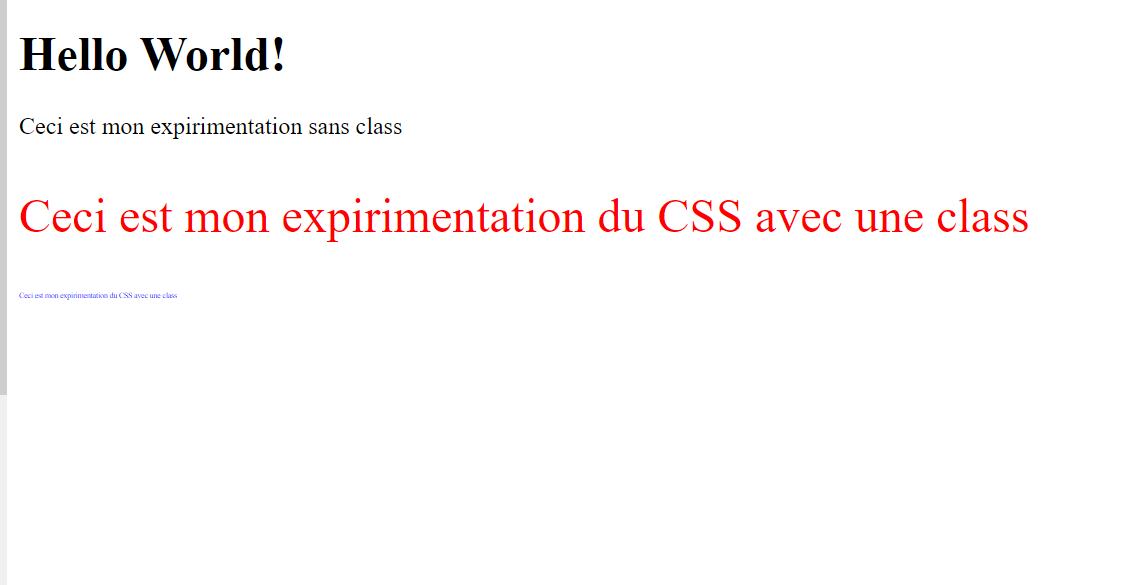
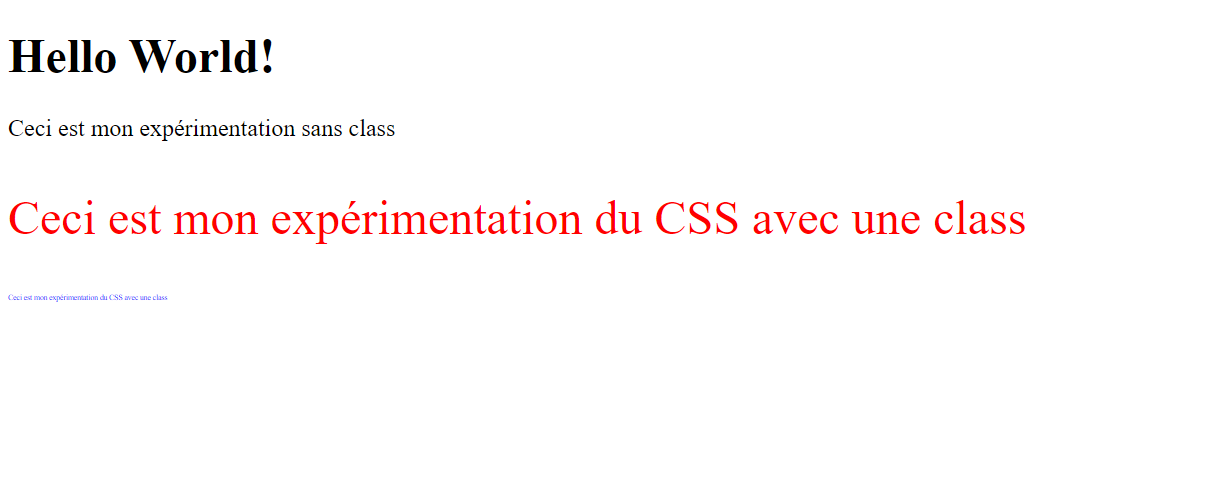
Ajout d'images et corrections de faute

Changed region(s): [[0.0, 0.0, 0.9186, 0.6735]]

diff --git a/index.html b/index.html
@@ -2,11 +2,13 @@
 <html>
   <head>
     <meta charset="utf-8">
-    <title>Mon expirimentation CSS</title>
+    <title>Mon expérimentation CSS</title>
     <link rel="stylesheet" href="/assets/css/style.css">
   </head>
   <body>
     <h1>Hello World!</h1>
-    <p>Ceci est mon expirimentation du CSS</p>
+    <p>Ceci est mon expérimentation sans class</p>
+    <p class="expérimentation">Ceci est mon expérimentation du CSS avec une class</p> 
+    <p class="expérimentation2">Ceci est mon expérimentation du CSS avec une class</p> 
   </body>
 </html>

diff --git a/assets/css/style.css b/assets/css/style.css
@@ -1,5 +1,10 @@
-p{
-    color: red;
-    font-size: 16px;
-    font-family: 'Times New Roman', Times, serif;
-}
+.expérimentation{
+    color:red;
+    font-size:32px;
+  }
+  
+  .expérimentation2{
+    color:blue;
+    font-size:5px;
+  }
+  

diff --git a/antisèche-html-css.md b/antisèche-html-css.md
@@ -6,7 +6,6 @@ Ce guide à pour but de faire une cure de rappel pour les poissons rouge sur le 
 
   - [L'introduction au HTML](#html-cest-quoi-)
   - [L'introduction au CSS](#css-cest-quoi-)
-  - [Co]
 
 # HTML c'est quoi ?
 
@@ -50,6 +49,45 @@ Ce guide à pour but de faire une cure de rappel pour les poissons rouge sur le 
   ```
 > <input type="text" -> Le type de l'input est de type on lui donne l'id "lastname" on lui donne ensuite un pattern qui va prendre une expression régulière dans cette expression on dit qu'on autorise l'utilisateur à mettre des lettres en minuscules majuscules ou des accent on lui donne aussi un minimum de lettre à rentré donc 3 et un maximum donc 25 le title est une erreur qu'on va afficher au cas où il ne respect pas les conditions le placeholder (Espace reservé)  c'est un texte par défault qui est dans le champ.
 
+## class
+ 
+ L'atribut universel class indique une liste de classes associées à l'élément courant. Les classes permettent de manipuler les éléments via CSS ou JavaScript en utilisant les sélecteur de classe ou de fonctions telles que document.getElementsByClassName
+
+ ## Comment créer une class en HTML?
+
+```HTML
+<!DOCTYPE html>
+<html>
+  <head>
+    <meta charset="utf-8">
+    <title>Mon expérimentation CSS</title>
+    <link rel="stylesheet" href="/assets/css/style.css"> 
+  </head>
+  <body>
+    <h1>Hello World!</h1>
+    <p class="expérimentation">Ceci est mon expérimentation du CSS</p> <!--On attribut à la balise P la class "expérimentation"--> 
+  </body>
+</html>
+```
+
+## id
+
+L'atribut universel id définit un identifiant qui doit être **unique** pour l'ensemble du document. Le but de cet attribut est de pouvoir identifier un élément lorsqu'on crée un lien avec un **fragment** et qu'on souhaite le manipuler avec un script ou qu'on le met en forme CSS.
+
+```HTML
+<!DOCTYPE html>
+<html>
+  <head>
+    <meta charset="utf-8">
+    <title>Mon expérimentation CSS</title>
+    <link rel="stylesheet" href="/assets/css/style.css"> 
+  </head>
+  <body>
+    <h1>Hello World!</h1>
+    <p id="expérimentation">Ceci est mon expérimentation du CSS</p> <!--On attribut à la balise P la l'id "expérimentation"--> 
+  </body>
+</html>
+```
 
 # CSS C'est quoi ?
 
@@ -115,12 +153,12 @@ Ce guide à pour but de faire une cure de rappel pour les poissons rouge sur le 
 <html>
   <head>
     <meta charset="utf-8">
-    <title>Mon expirimentation CSS</title>
+    <title>Mon expérimentation CSS</title>
     <link rel="stylesheet" href="/assets/css/style.css"> <!--<- Ici on fait appel au fichier style.css qui se trouve dans /assets/css/-->
   </head>
   <body>
     <h1>Hello World!</h1>
-    <p>Ceci est mon expirimentation du CSS</p> 
+    <p>Ceci est mon expérimentation du CSS</p> 
   </body>
 </html>
 ```
@@ -144,3 +182,93 @@ p{
 Résultat :
 
 <img src="https://github.com/raphaellebas/antiseche/blob/master/images/withcss.png?raw=true" alt="image représentant l'exemple avec CSS">
+
+## Ajouter du CSS avec une class 
+
+  Comme dans le cours plus haut sur les classes nous pouvons faire appelle à une class dans le CSS 
+
+  ```HTML
+<!DOCTYPE html>
+<html>
+  <head>
+    <meta charset="utf-8">
+    <title>Mon expérimentation CSS</title>
+    <link rel="stylesheet" href="/assets/css/style.css">
+  </head>
+  <body>
+    <h1>Hello World!</h1>
+    <p>Ceci est mon expérimentation sans class</p>
+    <p class="expérimentation">Ceci est mon expérimentation du CSS avec une class</p> 
+    <p class="expérimentation2">Ceci est mon expérimentation du CSS avec une class</p> 
+  </body>
+</html>
+```
+
+On veut donner à notre class la couleur rouge et une taille de 32 px à la class expérimentation et la couleur bleue et la taille 5px à expérimentation2
+> Pour faire appelle à une classe dans du css on commence par un point et ensuite le nom de la class
+
+## Côté CSS
+
+```css
+.expérimentation{
+  color:red;
+  font-size:32px;
+}
+
+.expérimentation2{
+  color:blue;
+  font-size:5px;
+}
+
+```
+
+Résultat :
+
+<img src="https://github.com/raphaellebas/antiseche/blob/master/images/withclass.png?raw=true" alt="Image représentant deux balises avec deux classes différentes"> 
+
+Cette fois-ci on veut utiliser l'id mais on va aussi ajouter une class pour l'id expérimentation on va lui donner la couleur bleue avec une taille de 16px pour l'id expérimentation2 on va lui donner une couleur dégradé avec une taille de 32px et pour notre class on va lui donner donner une couleur jaune avec une taille de 64 et on va aussi également lui mettre une propriété qui va nous permettre de changer de couleur qunad on passe le curseur dessus
+
+  ```HTML
+<!DOCTYPE html>
+<html>
+  <head>
+    <meta charset="utf-8">
+    <title>Mon expérimentation CSS</title>
+    <link rel="stylesheet" href="/assets/css/style.css">
+  </head>
+  <body>
+    <h1>Hello World!</h1>
+    <p>Ceci est mon expérimentation sans class</p>
+    <p id="expérimentation">Ceci est mon expérimentation du CSS avec un id</p> 
+    <p id="expérimentation2">Ceci est mon expérimentation du CSS avec un id</p>
+    <p class="expérimentation3">Ceci est mon exéirimentation du CSS avec une class</p> 
+  </body>
+</html>
+```
+>Pour faire appelle à un id dans un css on mets un # avant le nom
+
+## Côté CSS
+
+```CSS
+#experimentation{
+    color:blue;
+    font-size:16px;
+}
+
+#experimentation2{
+    background: linear-gradient(90deg, rgb(252, 0, 105) 0%, rgb(0, 119, 255) 35%, rgba(0,212,255,1) 100%);
+    -webkit-background-clip: text;
+    -webkit-text-fill-color: transparent;
+    font-size:32px;
+}
+
+.experimentation3{
+    font-size: 64px;
+    color: rgb(252, 0, 105);
+}
+
+
+.experimentation3:hover{
+    color: rgb(0, 119, 255);
+}
+```
